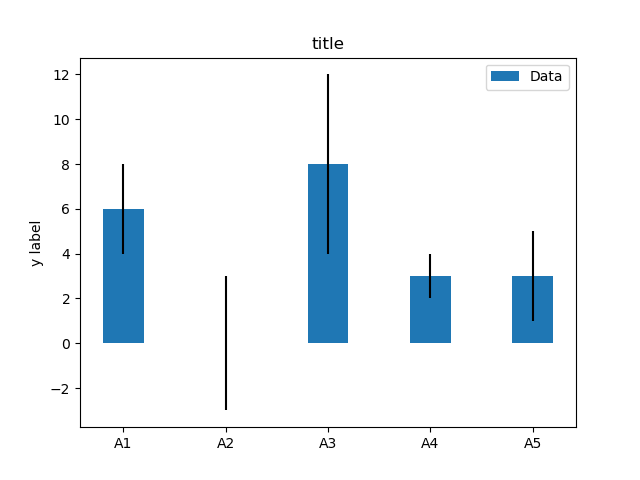
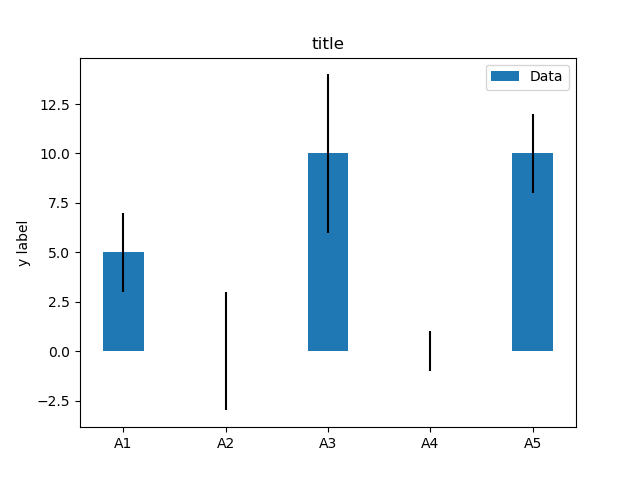
first commit

diff --git a/example.py b/example.py
@@ -2,7 +2,7 @@ import numpy as np
 import matplotlib.pyplot as plt
 
 labels = ['A1', 'A2', 'A3', 'A4', 'A5']
-m_means = [6,0,8,3,3]
+m_means = [5,0,10,0,10]
 m_std = [2, 3, 4, 1, 2]
 width = 0.40       # the width of the bars
 

diff --git a/README.md b/README.md
@@ -1,4 +1,4 @@
-# Matplotlib no 122 
+# Matplotlib no 123 
 
 python example
 
